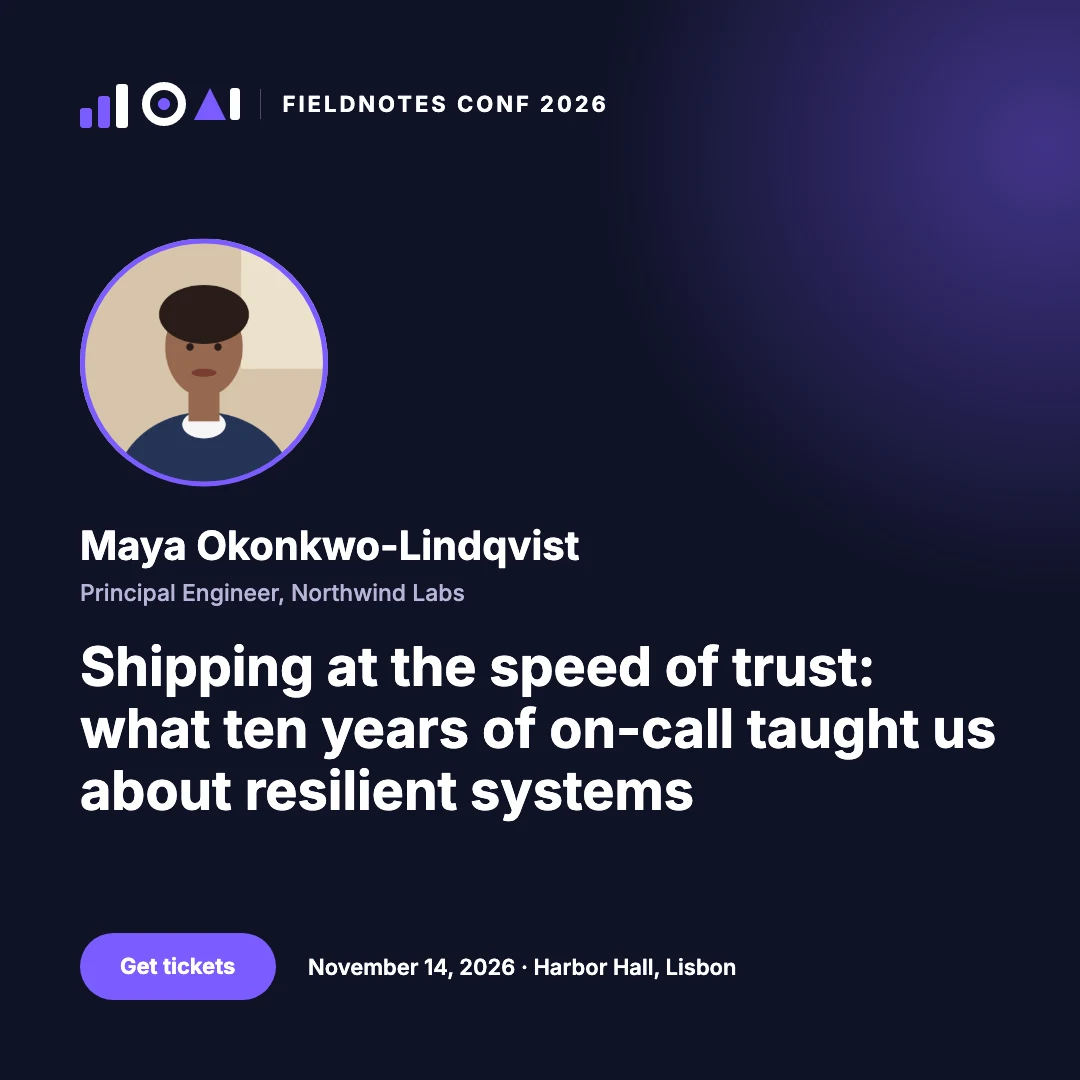
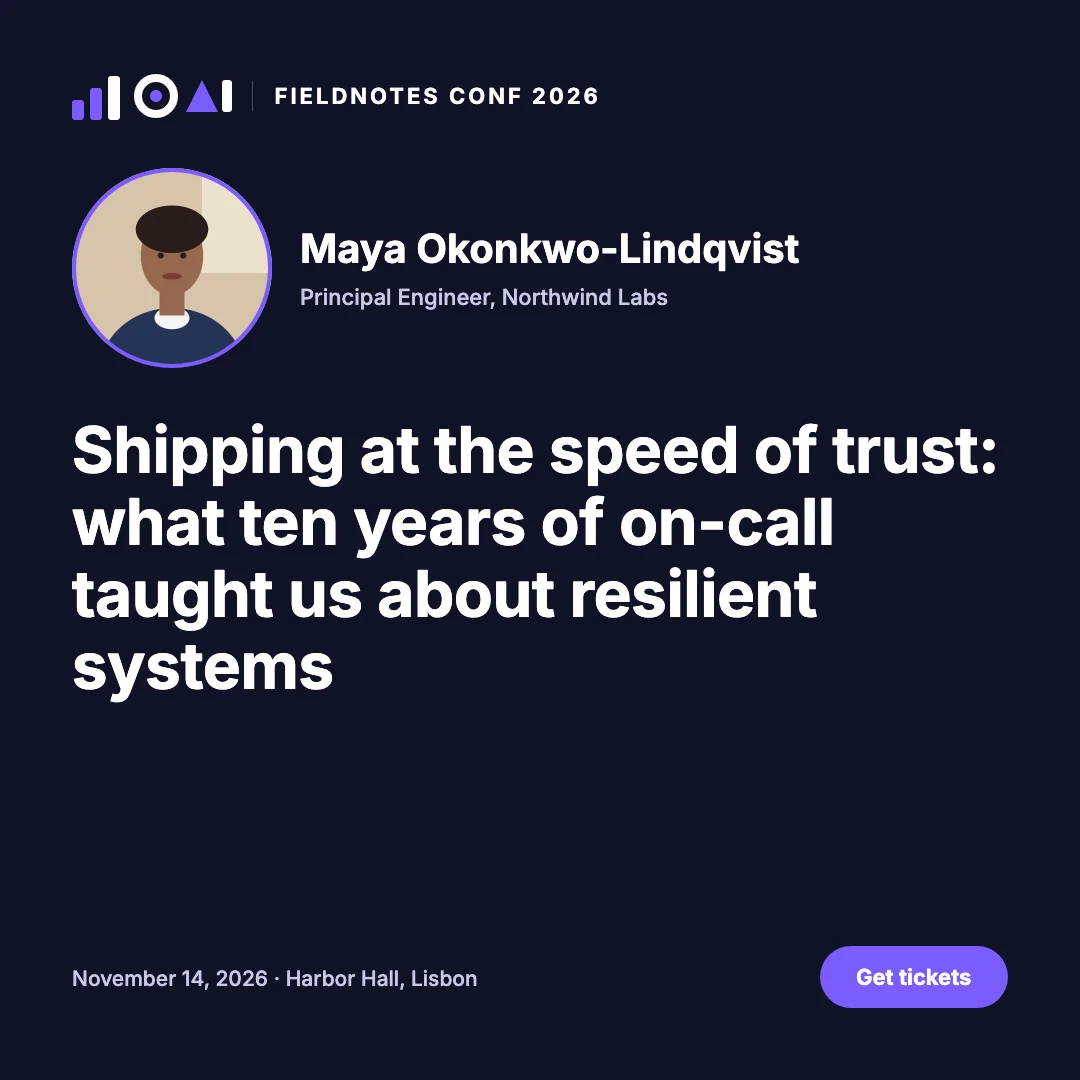
keyline vs a headless browser: final vs2 medians of 5 runs, the median runs' cards, the benchmark page's results

diff --git a/benchmark/index.html b/benchmark/index.html
@@ -105,7 +105,178 @@ KEYLINE_MCP_BENCH=&lt;label&gt; \
 </code></pre>
 <h2 id="prompt-version-vs2"><a class="anchor" href="#prompt-version-vs2">Prompt version vs2</a></h2>
 <p>The same protocol (prompts, tasks, judge, tooling unchanged; only the version label) rerun on keyline <code>43d4acd</code>. The <code>commit</code> column says <code>f386138</code>, the commit that bumped the label; its <code>src/</code> is identical to <code>43d4acd</code>.</p>
-<p><strong>In progress:</strong> blocks 1–4 ran (24 runs, all judged); the runner stopped before block 5 because another change landed in the working tree&#39;s <code>src/</code> and rebuilt the binary. All 24 runs used the binary built from <code>43d4acd</code> at 14:06 (the next release build was at 15:27, after block 4); <code>reference-ad/*-v2-4</code> say <code>+dirty</code> only because <code>src/</code> changed while they were being saved. No results table or claim until all five blocks have run.</p>
+<p>30 counted runs, 5 per arm and task in five interleaved blocks, on 2026-10-01. Blocks 1–4 ran 14:07–15:28; the runner then stopped because uncommitted changes appeared in the working tree&#39;s <code>src/</code>, and block 5 ran 15:54–16:14 once <code>src/</code> was identical to <code>43d4acd</code> again and the binary was rebuilt from it. Blocks 1–4 used the 14:06 build from <code>43d4acd</code>, block 5 a 15:54 rebuild of the same source (the commit column says <code>5447e97</code>, a commit that only added runs). <code>reference-ad/*-v2-4</code> say <code>+dirty</code> only because <code>src/</code> changed while they were being saved. Every run ended normally; there were no timeouts and no infrastructure reruns.</p>
+<h3 id="results"><a class="anchor" href="#results">Results</a></h3>
+<p>Medians (min–max) over all 30 runs. Ratios are browser ÷ keyline: the ratio of the medians, then the range between the extremes.</p>
+<h4 id="reference-ad"><a class="anchor" href="#reference-ad">reference-ad</a></h4>
+<div class="table"><table>
+<thead>
+<tr>
+<th>Arm</th>
+<th>Correct</th>
+<th>Total tokens</th>
+<th>Cost</th>
+<th>Cold cost</th>
+<th>Turns</th>
+<th>Time (s)</th>
+<th>Images seen</th>
+<th>Fixed overhead</th>
+<th>Peak context</th>
+<th>Measured with JS</th>
+</tr>
+</thead>
+<tbody><tr>
+<td>keyline</td>
+<td>4/5</td>
+<td>169k (115k–185k)</td>
+<td>$0.47 ($0.37–0.71)</td>
+<td>$1.01</td>
+<td>10 (9–12)</td>
+<td>128 (102–288)</td>
+<td>1 (1–4)</td>
+<td>5.2k</td>
+<td>19k</td>
+<td>–</td>
+</tr>
+<tr>
+<td>browser-cli</td>
+<td>5/5</td>
+<td>308k (172k–634k)</td>
+<td>$0.83 ($0.57–1.23)</td>
+<td>$1.83</td>
+<td>19 (14–32)</td>
+<td>225 (158–317)</td>
+<td>8 (6–8)</td>
+<td>3.6k</td>
+<td>34k</td>
+<td>5/5</td>
+</tr>
+<tr>
+<td>browser-mcp</td>
+<td>5/5</td>
+<td>1,056k (618k–1,485k)</td>
+<td>$1.17 ($0.80–1.56)</td>
+<td>$5.55</td>
+<td>43 (29–53)</td>
+<td>225 (175–274)</td>
+<td>6 (4–8)</td>
+<td>9.3k</td>
+<td>38k</td>
+<td>5/5</td>
+</tr>
+</tbody></table></div>
+<div class="table"><table>
+<thead>
+<tr>
+<th>Browser ÷ keyline</th>
+<th>Total tokens</th>
+<th>Cost</th>
+</tr>
+</thead>
+<tbody><tr>
+<td>browser-cli</td>
+<td>1.8× (0.9–5.5×)</td>
+<td>1.8× (0.8–3.3×)</td>
+</tr>
+<tr>
+<td>browser-mcp</td>
+<td>6.3× (3.3–12.9×)</td>
+<td>2.5× (1.1–4.2×)</td>
+</tr>
+</tbody></table></div>
+<h4 id="speaker-card"><a class="anchor" href="#speaker-card">speaker-card</a></h4>
+<div class="table"><table>
+<thead>
+<tr>
+<th>Arm</th>
+<th>Correct</th>
+<th>Total tokens</th>
+<th>Cost</th>
+<th>Cold cost</th>
+<th>Turns</th>
+<th>Time (s)</th>
+<th>Images seen</th>
+<th>Fixed overhead</th>
+<th>Peak context</th>
+<th>Measured with JS</th>
+</tr>
+</thead>
+<tbody><tr>
+<td>keyline</td>
+<td>5/5</td>
+<td>199k (93k–290k)</td>
+<td>$0.51 ($0.31–0.69)</td>
+<td>$1.18</td>
+<td>13 (8–16)</td>
+<td>121 (92–187)</td>
+<td>4 (2–6)</td>
+<td>5.2k</td>
+<td>21k</td>
+<td>–</td>
+</tr>
+<tr>
+<td>browser-cli</td>
+<td>5/5</td>
+<td>536k (237k–574k)</td>
+<td>$1.03 ($0.61–1.19)</td>
+<td>$3.02</td>
+<td>24 (17–28)</td>
+<td>222 (141–311)</td>
+<td>7 (5–8)</td>
+<td>3.6k</td>
+<td>39k</td>
+<td>5/5</td>
+</tr>
+<tr>
+<td>browser-mcp</td>
+<td>5/5</td>
+<td>1,087k (571k–1,824k)</td>
+<td>$1.25 ($1.14–1.82)</td>
+<td>$5.69</td>
+<td>39 (26–56)</td>
+<td>255 (176–270)</td>
+<td>8 (7–11)</td>
+<td>9.3k</td>
+<td>47k</td>
+<td>5/5</td>
+</tr>
+</tbody></table></div>
+<div class="table"><table>
+<thead>
+<tr>
+<th>Browser ÷ keyline</th>
+<th>Total tokens</th>
+<th>Cost</th>
+</tr>
+</thead>
+<tbody><tr>
+<td>browser-cli</td>
+<td>2.7× (0.8–6.1×)</td>
+<td>2.0× (0.9–3.8×)</td>
+</tr>
+<tr>
+<td>browser-mcp</td>
+<td>5.5× (2.0–19.5×)</td>
+<td>2.4× (1.7–5.8×)</td>
+</tr>
+</tbody></table></div>
+<p>Every run is in <code>results.tsv</code>, likeness scores included, and the medians over correct runs only are printed by <code>judge_runs</code>. On reference-ad they are 170k tokens for keyline&#39;s 4 correct runs against 308k for browser-cli.</p>
+<h3 id="reading-it"><a class="anchor" href="#reading-it">Reading it</a></h3>
+<ul>
+<li><strong>The stronger browser arm is browser-cli,</strong> with the lower median total tokens on both tasks, so it&#39;s the comparison. browser-mcp&#39;s tool definitions add 9.3k tokens to every request, and it took about twice as many turns.</li>
+<li><strong>reference-ad:</strong> keyline used fewer tokens (1.8×) but was correct less often (4/5 against 5/5). The run that failed, <code>keyline-v2-1</code>, left the wide size&#39;s photo band cropped to 53% of its height, and the judge marked the photo cut off. <code>keyline-v2-5</code> has the same 53% crop and keyline&#39;s <code>warn crop</code> too, and the judge passed it. The agent acted on neither warning.</li>
+<li><strong>speaker-card:</strong> keyline used 2.7× fewer tokens, and all three arms were correct 5/5.</li>
+<li><strong>The ranges overlap:</strong> browser-cli&#39;s cheapest run on each task used fewer tokens than keyline&#39;s most expensive one.</li>
+<li><strong>Elsewhere:</strong> keyline was faster on median time on both tasks (128 s against 225 s, and 121 s against 222 s) and looked at fewer images. Every browser run measured its page with JavaScript.</li>
+</ul>
+<h3 id="what-the-rules-allow"><a class="anchor" href="#what-the-rules-allow">What the rules allow</a></h3>
+<p>reference-ad allows no token claim, because the browser arm was correct more often. speaker-card allows one by name, rounded down to one significant figure:</p>
+<blockquote>
+<p>On a speaker-card task, keyline used 2× fewer tokens than a headless-browser agent (median of 5 runs, Claude Opus 5, October 2026).</p>
+</blockquote>
+<p>There is no general &quot;X× fewer tokens&quot; claim, since that would need keyline to win on both tasks with correctness at least as high.</p>
+<h3 id="owner39s-blind-review"><a class="anchor" href="#owner39s-blind-review">Owner&#39;s blind review</a></h3>
+<p><code>export_review</code> wrote 15 anonymised sets per task to <code>review/&lt;task&gt;/</code> (the PNGs are gitignored copies). Fill in <code>review.tsv</code>, without opening <code>key.tsv</code>, then run <code>judge_runs</code>, which prints how often owner and judge agree.</p>
 <h2 id="prompt-version-vs1-stopped-superseded-by-vs2"><a class="anchor" href="#prompt-version-vs1-stopped-superseded-by-vs2">Prompt version vs1 (stopped, superseded by vs2)</a></h2>
 <p><strong>vs1 stopped after 29 runs so keyline changes could land; a full rerun follows as vs2.</strong> Blocks 1–4 ran in full, and block 5 got five of its six runs (<code>speaker-card/keyline-5</code> never ran). Every run that ran is kept here and in <code>results.tsv</code>, and judged. vs1 numbers are not compared with vs2&#39;s.</p>
 <ul>

diff --git a/index.html b/index.html
@@ -168,16 +168,16 @@ square …/square-v5.mp4 (1080×1080, 5s,
         <figure><img src="assets/versus/browser-square.webp" width="1080" height="1080" loading="lazy" alt="The same speaker card made with HTML and headless Chrome"><figcaption><i class="sw b"></i>HTML + headless Chrome</figcaption></figure>
       </div>
       <table class="vs-stats">
-        <caption>Median of 4 runs each so far (the fifth is running), Claude Opus 5, October 2026</caption>
+        <caption>Median of 5 runs each, Claude Opus 5, October 2026</caption>
         <thead><tr><th scope="col"></th><th scope="col"><i class="sw k"></i>keyline</th><th scope="col"><i class="sw b"></i>Headless Chrome</th></tr></thead>
         <tbody>
-          <tr><th scope="row">Tokens</th><td><span class="bar k" style="--w: 39%"></span>160k</td><td><span class="bar b" style="--w: 100%"></span>413k</td></tr>
-          <tr><th scope="row">Turns</th><td><span class="bar k" style="--w: 51%"></span>11</td><td><span class="bar b" style="--w: 100%"></span>22</td></tr>
-          <tr><th scope="row">Time</th><td><span class="bar k" style="--w: 57%"></span>1.8 min</td><td><span class="bar b" style="--w: 100%"></span>3.2 min</td></tr>
-          <tr><th scope="row">Images looked at</th><td><span class="bar k" style="--w: 43%"></span>3</td><td><span class="bar b" style="--w: 100%"></span>7</td></tr>
+          <tr><th scope="row">Tokens</th><td><span class="bar k" style="--w: 37%"></span>199k</td><td><span class="bar b" style="--w: 100%"></span>536k</td></tr>
+          <tr><th scope="row">Turns</th><td><span class="bar k" style="--w: 54%"></span>13</td><td><span class="bar b" style="--w: 100%"></span>24</td></tr>
+          <tr><th scope="row">Time</th><td><span class="bar k" style="--w: 55%"></span>2.0 min</td><td><span class="bar b" style="--w: 100%"></span>3.7 min</td></tr>
+          <tr><th scope="row">Images looked at</th><td><span class="bar k" style="--w: 57%"></span>4</td><td><span class="bar b" style="--w: 100%"></span>7</td></tr>
         </tbody>
       </table>
-      <p class="vs-claim">On this task, keyline used <strong>2× fewer tokens</strong> than a headless-browser agent, so far.</p>
+      <p class="vs-claim">On this task, keyline used <strong>2× fewer tokens</strong> than a headless-browser agent.</p>
       <p class="vs-note">Our second task, a flyer, supports no claim: keyline got it right 4 times in 5, the browser 5 in 5. Every run, failures included, the prompts and the judge are in <a href="/benchmark/">the benchmark</a>.</p>
     </section>
 

diff --git a/benchmark/index.md b/benchmark/index.md
@@ -62,7 +62,59 @@ cargo test --release --test versus_browser judge_runs -- --ignored --nocapture
 
 The same protocol (prompts, tasks, judge, tooling unchanged; only the version label) rerun on keyline `43d4acd`. The `commit` column says `f386138`, the commit that bumped the label; its `src/` is identical to `43d4acd`.
 
-**In progress:** blocks 1–4 ran (24 runs, all judged); the runner stopped before block 5 because another change landed in the working tree's `src/` and rebuilt the binary. All 24 runs used the binary built from `43d4acd` at 14:06 (the next release build was at 15:27, after block 4); `reference-ad/*-v2-4` say `+dirty` only because `src/` changed while they were being saved. No results table or claim until all five blocks have run.
+30 counted runs, 5 per arm and task in five interleaved blocks, on 2026-10-01. Blocks 1–4 ran 14:07–15:28; the runner then stopped because uncommitted changes appeared in the working tree's `src/`, and block 5 ran 15:54–16:14 once `src/` was identical to `43d4acd` again and the binary was rebuilt from it. Blocks 1–4 used the 14:06 build from `43d4acd`, block 5 a 15:54 rebuild of the same source (the commit column says `5447e97`, a commit that only added runs). `reference-ad/*-v2-4` say `+dirty` only because `src/` changed while they were being saved. Every run ended normally; there were no timeouts and no infrastructure reruns.
+
+### Results
+
+Medians (min–max) over all 30 runs. Ratios are browser ÷ keyline: the ratio of the medians, then the range between the extremes.
+
+#### reference-ad
+
+| Arm | Correct | Total tokens | Cost | Cold cost | Turns | Time (s) | Images seen | Fixed overhead | Peak context | Measured with JS |
+|---|---|---|---|---|---|---|---|---|---|---|
+| keyline | 4/5 | 169k (115k–185k) | $0.47 ($0.37–0.71) | $1.01 | 10 (9–12) | 128 (102–288) | 1 (1–4) | 5.2k | 19k | – |
+| browser-cli | 5/5 | 308k (172k–634k) | $0.83 ($0.57–1.23) | $1.83 | 19 (14–32) | 225 (158–317) | 8 (6–8) | 3.6k | 34k | 5/5 |
+| browser-mcp | 5/5 | 1,056k (618k–1,485k) | $1.17 ($0.80–1.56) | $5.55 | 43 (29–53) | 225 (175–274) | 6 (4–8) | 9.3k | 38k | 5/5 |
+
+| Browser ÷ keyline | Total tokens | Cost |
+|---|---|---|
+| browser-cli | 1.8× (0.9–5.5×) | 1.8× (0.8–3.3×) |
+| browser-mcp | 6.3× (3.3–12.9×) | 2.5× (1.1–4.2×) |
+
+#### speaker-card
+
+| Arm | Correct | Total tokens | Cost | Cold cost | Turns | Time (s) | Images seen | Fixed overhead | Peak context | Measured with JS |
+|---|---|---|---|---|---|---|---|---|---|---|
+| keyline | 5/5 | 199k (93k–290k) | $0.51 ($0.31–0.69) | $1.18 | 13 (8–16) | 121 (92–187) | 4 (2–6) | 5.2k | 21k | – |
+| browser-cli | 5/5 | 536k (237k–574k) | $1.03 ($0.61–1.19) | $3.02 | 24 (17–28) | 222 (141–311) | 7 (5–8) | 3.6k | 39k | 5/5 |
+| browser-mcp | 5/5 | 1,087k (571k–1,824k) | $1.25 ($1.14–1.82) | $5.69 | 39 (26–56) | 255 (176–270) | 8 (7–11) | 9.3k | 47k | 5/5 |
+
+| Browser ÷ keyline | Total tokens | Cost |
+|---|---|---|
+| browser-cli | 2.7× (0.8–6.1×) | 2.0× (0.9–3.8×) |
+| browser-mcp | 5.5× (2.0–19.5×) | 2.4× (1.7–5.8×) |
+
+Every run is in `results.tsv`, likeness scores included, and the medians over correct runs only are printed by `judge_runs`. On reference-ad they are 170k tokens for keyline's 4 correct runs against 308k for browser-cli.
+
+### Reading it
+
+- **The stronger browser arm is browser-cli,** with the lower median total tokens on both tasks, so it's the comparison. browser-mcp's tool definitions add 9.3k tokens to every request, and it took about twice as many turns.
+- **reference-ad:** keyline used fewer tokens (1.8×) but was correct less often (4/5 against 5/5). The run that failed, `keyline-v2-1`, left the wide size's photo band cropped to 53% of its height, and the judge marked the photo cut off. `keyline-v2-5` has the same 53% crop and keyline's `warn crop` too, and the judge passed it. The agent acted on neither warning.
+- **speaker-card:** keyline used 2.7× fewer tokens, and all three arms were correct 5/5.
+- **The ranges overlap:** browser-cli's cheapest run on each task used fewer tokens than keyline's most expensive one.
+- **Elsewhere:** keyline was faster on median time on both tasks (128 s against 225 s, and 121 s against 222 s) and looked at fewer images. Every browser run measured its page with JavaScript.
+
+### What the rules allow
+
+reference-ad allows no token claim, because the browser arm was correct more often. speaker-card allows one by name, rounded down to one significant figure:
+
+> On a speaker-card task, keyline used 2× fewer tokens than a headless-browser agent (median of 5 runs, Claude Opus 5, October 2026).
+
+There is no general "X× fewer tokens" claim, since that would need keyline to win on both tasks with correctness at least as high.
+
+### Owner's blind review
+
+`export_review` wrote 15 anonymised sets per task to `review/<task>/` (the PNGs are gitignored copies). Fill in `review.tsv`, without opening `key.tsv`, then run `judge_runs`, which prints how often owner and judge agree.
 
 ## Prompt version vs1 (stopped, superseded by vs2)
 
